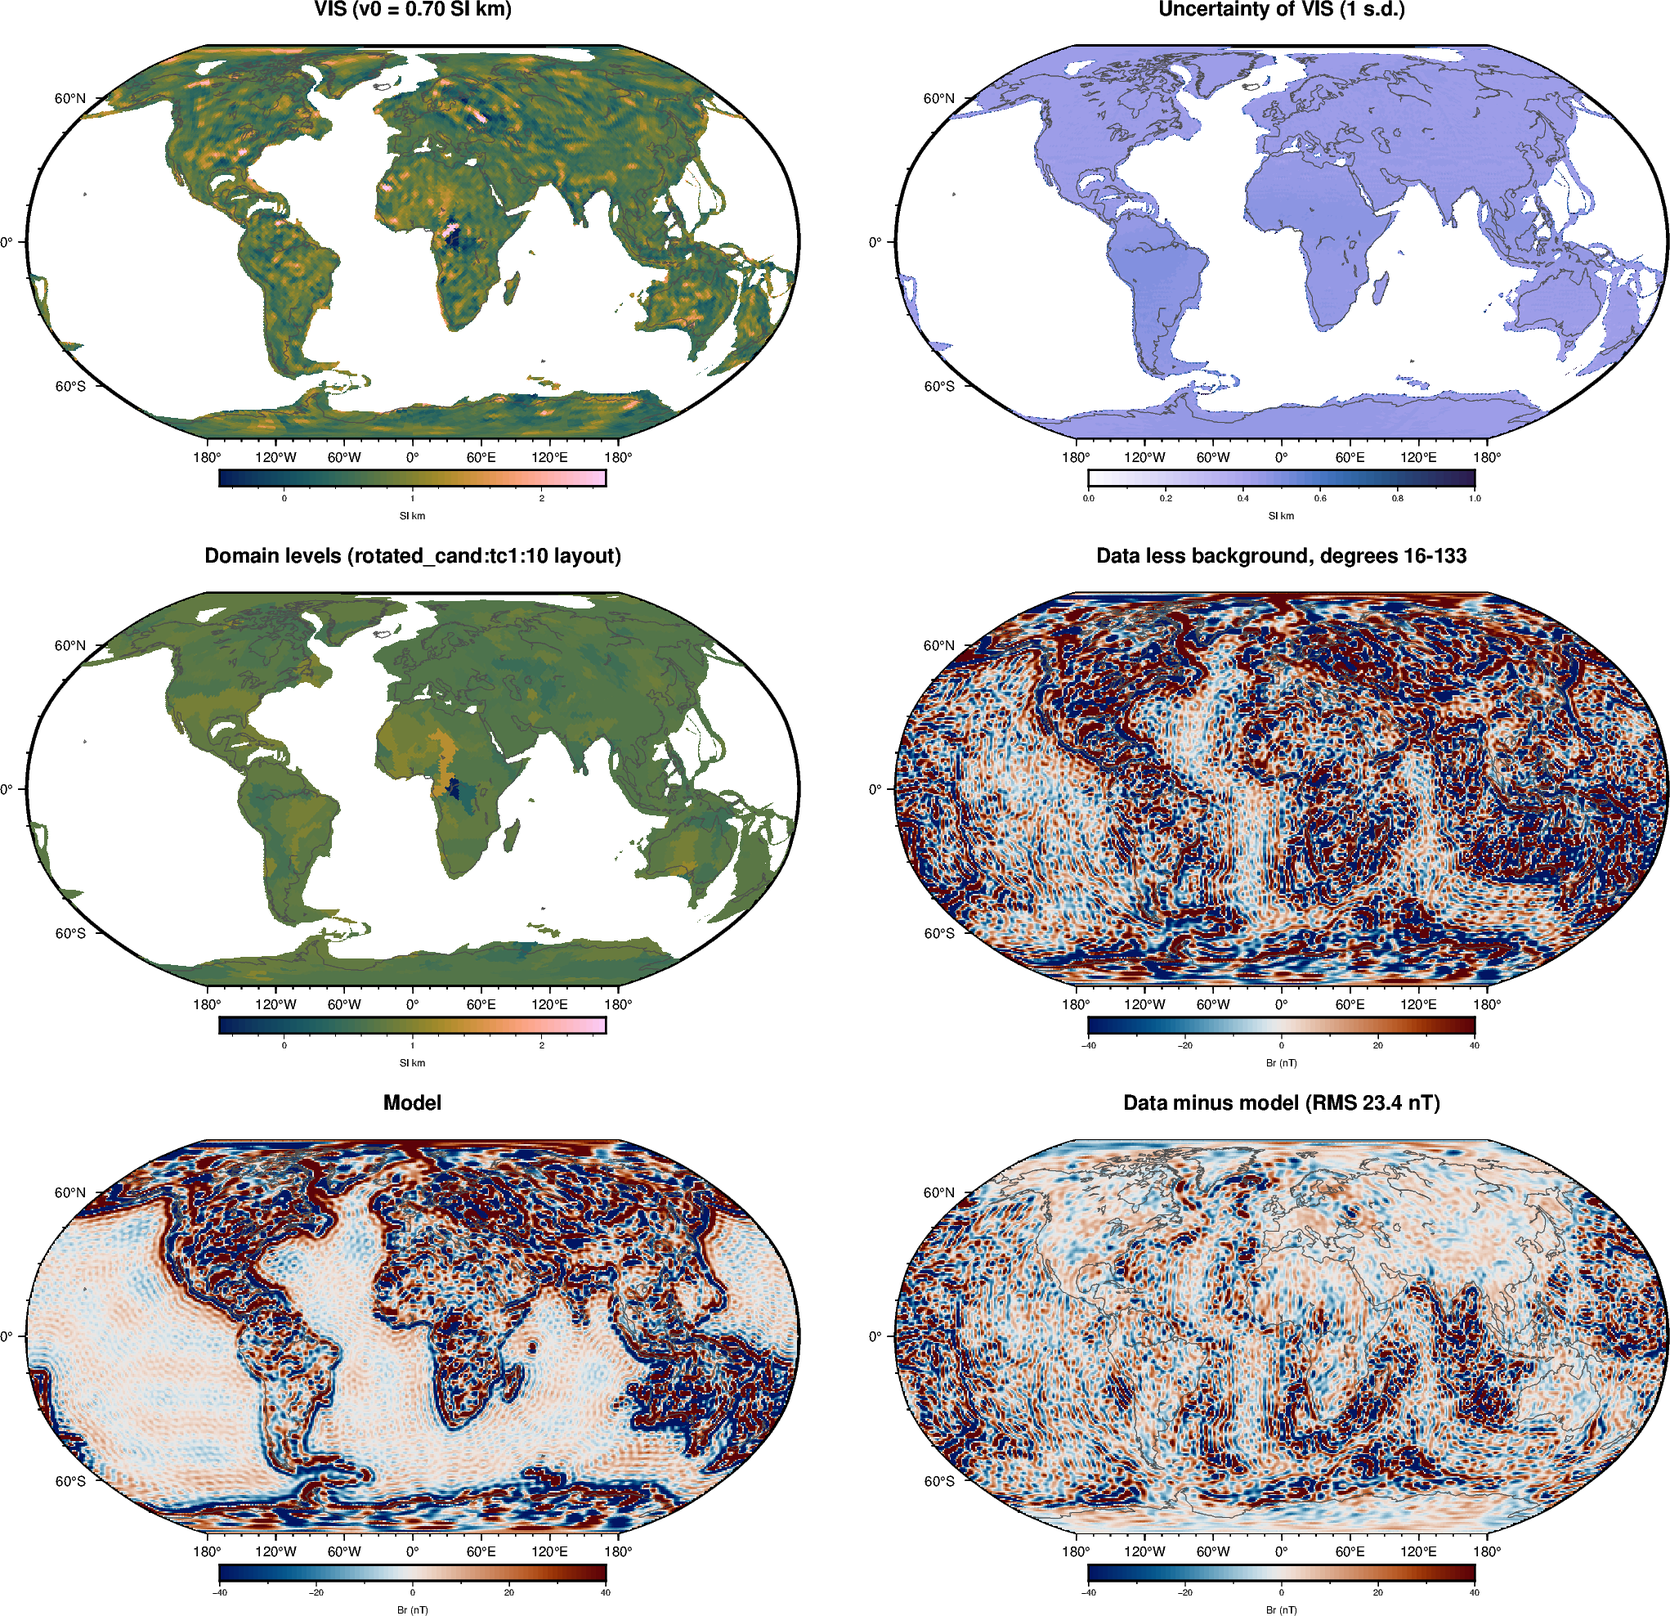
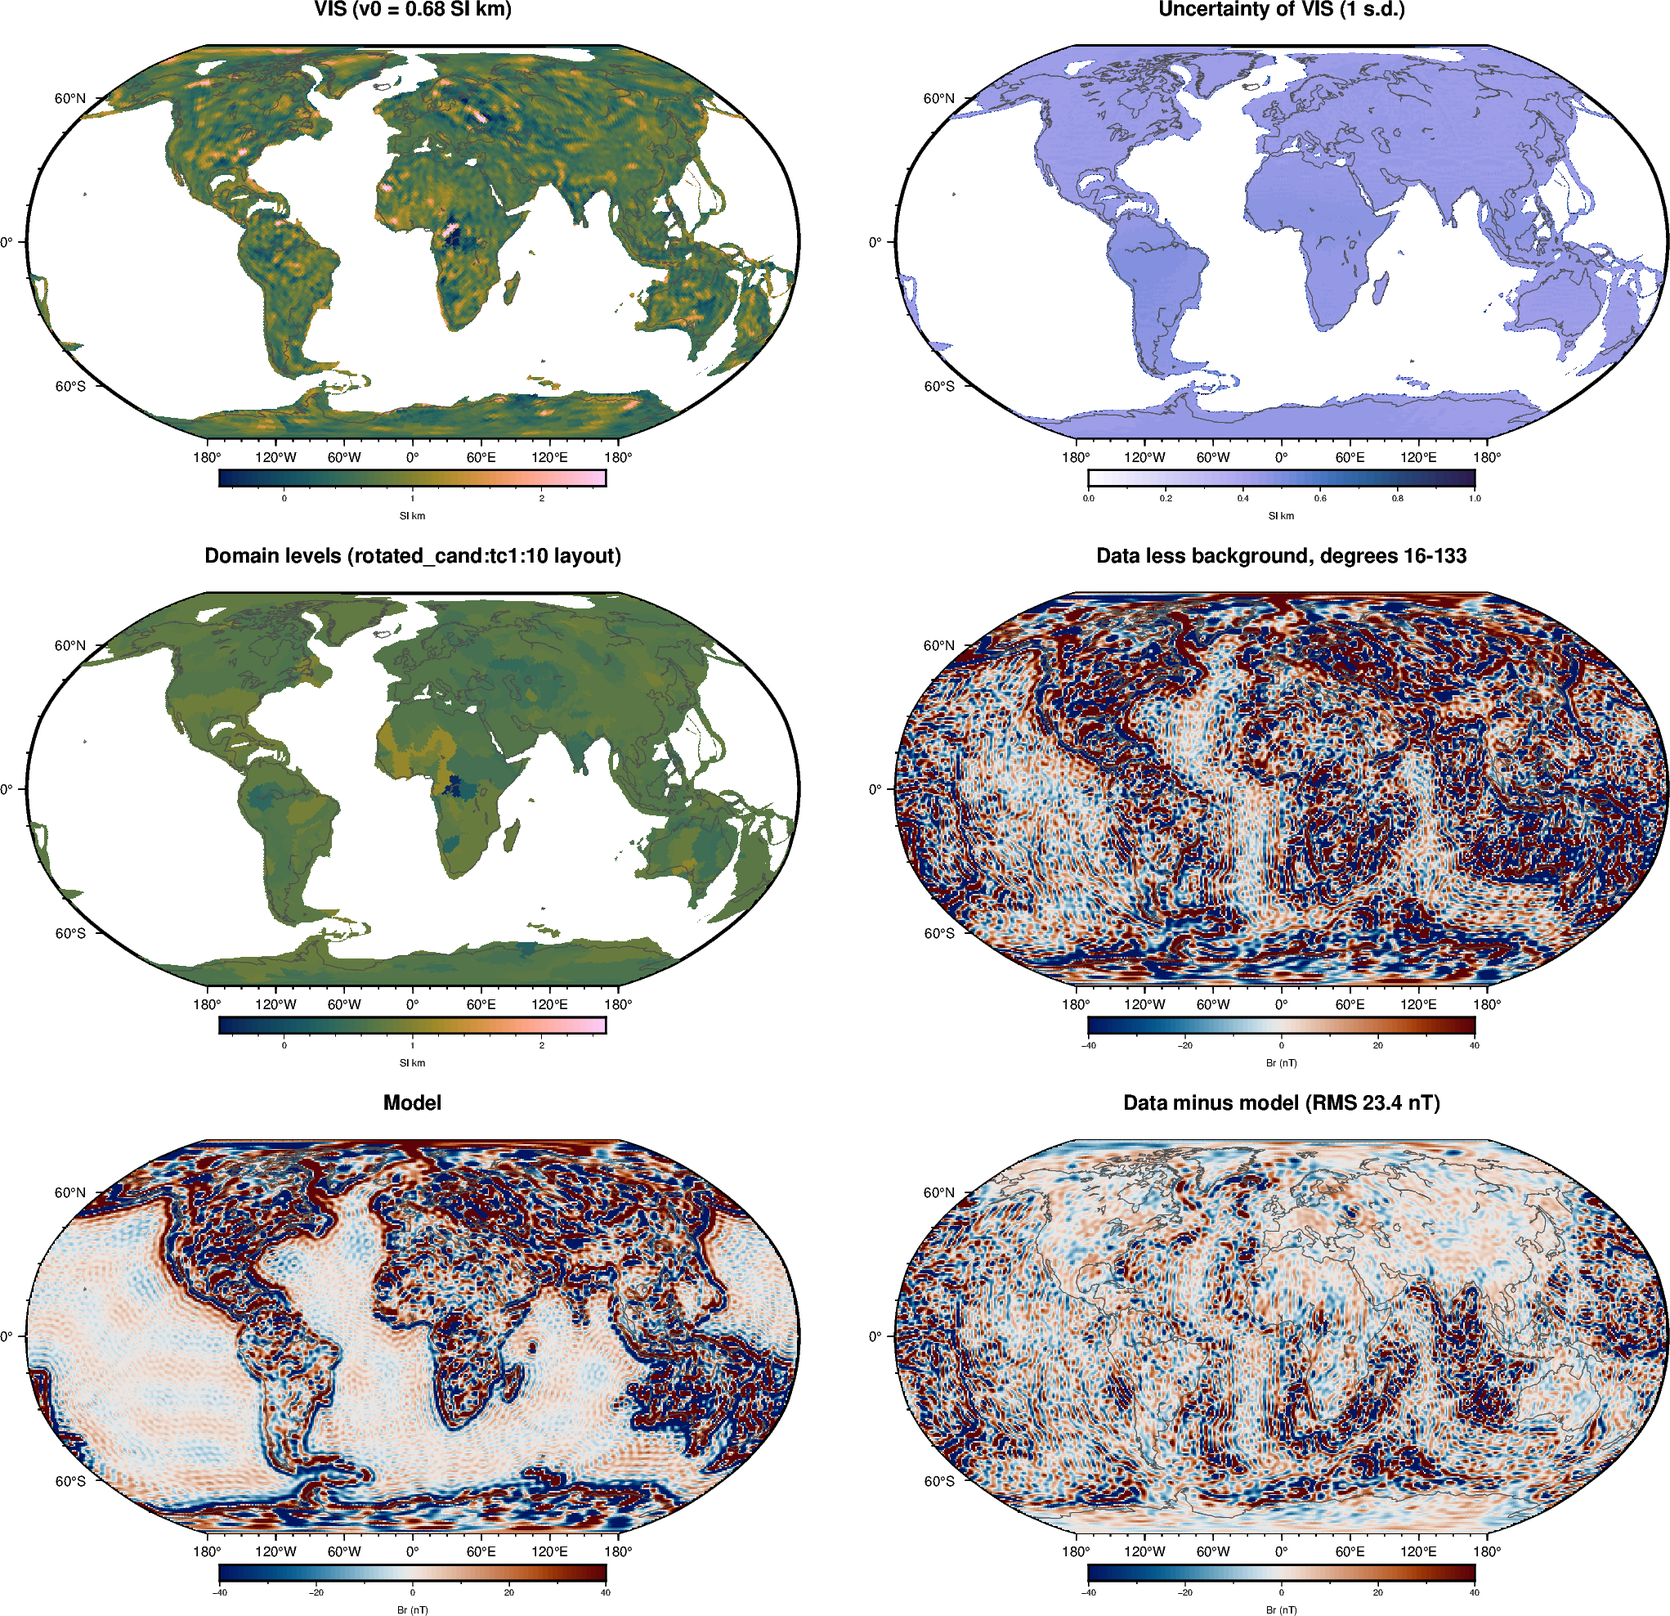
Candidate maps: 10 more S5 draws for a geometry-corrected score, TC1 rerun with the Keller grid, and a size-frequency plot of the domains
Corrected for geometry (real minus the mean of 11 S5 draws), NRCan comes out ahead of Hasterok, CGMW/TC1/ECM1 level with it,
Merdith and SL2013 behind; S5 favours Hasterok's capped domain sizes, so the correction rests on S5 being realistic. TC1 with
the Keller grid still beats all 20 spun copies.

diff --git a/docs/reports/2026-10-13-candidate-sets/make_ranking.py b/docs/reports/2026-10-13-candidate-sets/make_ranking.py
@@ -1,6 +1,8 @@
 """The candidate-map test (batches 1 and 2): each map's evidence against the Hasterok provinces, against 20 spun copies of
-itself, and on the S5 synthetic data; and maps of each map's domains and fitted VIS.
-Read from the runs gcm_glc_cand1_* and gcm_glc_cand2_*. Run from the repository root."""
+itself, and on 11 draws of S5 synthetic data (geology-blind), with the score corrected for geometry (real minus the
+S5 mean); and maps of each map's domains and fitted VIS.
+Read from the runs gcm_glc_cand1_*, gcm_glc_cand2_*, gcm_glc_cand_syn_s5_d* and gcm_glc_cand_tc1k_* (TC1 rerun with the
+Keller grid, which supersedes the cand1 TC1 rows). Run from the repository root."""
 import glob
 import re
 
@@ -20,6 +22,7 @@ NAMES = {'cand:hasterok': 'Hasterok provinces', 'cand:sl2013_k4': 'SL2013sv clus
          'cand:ecm1': 'ECM1 crustal type', 'cand:merdith': 'Merdith (2021) static polygons',
          'cand:nrcan': 'NRCan surface geology', 'cand:cgmw': 'CGMW geological map'}
 BATCHES = ('cand1', 'cand2')
+TC1K = 'cand_tc1k'                                        # TC1 rerun with the Keller grid
 
 
 def evidence(path):
@@ -38,7 +41,20 @@ def runs(tag):
     for b in BATCHES:
         for f in glob.glob(R + f'gcm_glc_{b}_{tag}.log'):
             out = {**evidence(f), **out}                     # the first batch's value of a layout run twice
+    for f in glob.glob(R + f'gcm_glc_{TC1K}_{tag}.log'):
+        out.update({k: v for k, v in evidence(f).items() if k == 'cand:tc1'})
     return out
+
+
+def s5_draws():
+    """evidence of every layout in each S5 draw: draw 0 from the batches, draws 1-10 from their own runs"""
+    files = sorted(glob.glob(R + 'gcm_glc_cand_syn_s5_d*.log'), key=lambda f: int(re.search(r'_d(\d+)', f).group(1)))
+    return [d for d in [runs('syn_s5')] + [evidence(f) for f in files] if REF in d]
+
+
+def s5_relative(c, draws):
+    """a map's S5 evidence minus Hasterok's, in each draw that has it"""
+    return np.array([d[c][0] - d[REF][0] for d in draws if c in d])
 
 
 def spun(cand):
@@ -48,7 +64,7 @@ def spun(cand):
 
 
 def chart():
-    real, syn = runs('lcs1_16-133'), runs('syn_s5')
+    real, draws = runs('lcs1_16-133'), s5_draws()
     cands = sorted((c for c in NAMES if c in real), key=lambda c: real[c][0])
     ref = real[REF][0]
     INK, MUTED, REAL, SPIN, SYN = '#0b0b0b', '#52514e', '#2a78d6', '#eb6834', '#8a8984'
@@ -64,8 +80,10 @@ def chart():
         note = f'{(s > d).sum()} of {len(s)} spun copies beat it' if len(s) else 'spin test pending'
         ax.annotate(note, (max([d] + list(s)), y), xytext=(8, 0), textcoords='offset points', fontsize=7,
                     color=MUTED, va='center')
-        if c in syn:
-            bx.scatter([syn[c][0] - syn[REF][0]], [y], s=30, color=SYN, zorder=3)
+        z = s5_relative(c, draws)
+        if len(z):
+            bx.scatter(z, y + rng.uniform(-0.15, 0.15, len(z)), s=10, color=SYN, alpha=0.7, lw=0, zorder=3)
+            bx.plot([z.mean()]*2, [y - 0.3, y + 0.3], color=INK, lw=1.6, zorder=4)
     labels = [f'{NAMES[c]}  ({real[c][1]} domains)' for c in cands]
     for a in (ax, bx):
         a.axvline(0, color=INK, lw=1, zorder=2)
@@ -78,20 +96,28 @@ def chart():
     ax.margins(x=0.3)
     ax.set_xlabel('Log evidence minus that of the Hasterok provinces  (> 0: fits better)', fontsize=8, color=MUTED)
     ax.set_title('Real data: each map (blue) and 20 spun copies of it (orange)', fontsize=9, loc='left', color=INK)
-    bx.set_xlabel('Same, synthetic data', fontsize=8, color=MUTED)
-    bx.set_title('Synthetic check (S5)', fontsize=9, loc='left', color=INK)
+    bx.set_xlabel('Same, synthetic data (bar: mean)', fontsize=8, color=MUTED)
+    bx.set_title(f'Synthetic check: {len(draws)} S5 draws', fontsize=9, loc='left', color=INK)
     fig.tight_layout()
     fig.savefig(OUT + 'ranking.png')
+    rows = []
     for c in cands[::-1]:
-        s = spun(c) - ref
-        print(f'{NAMES[c]:32s} {real[c][1]:4d} domains  {real[c][0] - ref:+8.1f}'
-              + (f'  spun best {s.max():+.1f} median {np.median(s):+.1f}' if len(s) else '')
-              + (f'  S5 {syn[c][0] - syn[REF][0]:+.1f}' if c in syn else ''))
+        s, z = spun(c), s5_relative(c, draws)
+        d = real[c][0] - ref
+        rows.append(dict(map=NAMES[c], domains=real[c][1], real_vs_hasterok=round(d, 1),
+                         real_minus_median_spun=round(real[c][0] - np.median(s), 1) if len(s) else np.nan,
+                         spun_beating_it=int((s > real[c][0]).sum()) if len(s) else np.nan,
+                         s5_draws=len(z), s5_mean=round(z.mean(), 1), s5_sd=round(z.std(ddof=1), 1) if len(z) > 1 else np.nan,
+                         corrected=round(d - z.mean(), 1)))
+    import pandas as pd
+    t = pd.DataFrame(rows).sort_values('corrected', ascending=False)
+    t.to_csv(OUT + 'corrected.csv', index=False)
+    print(t.to_string(index=False))
 
 
 def maps():
     """for each map: its domains (random colours) and the fitted VIS averaged over each domain"""
-    sets = [xr.load_dataset(f) for b in BATCHES for f in glob.glob(R + f'gcm_glc_{b}_lcs1_16-133.nc')]
+    sets = [xr.load_dataset(f) for b in (TC1K,) + BATCHES for f in glob.glob(R + f'gcm_glc_{b}_lcs1_16-133.nc')]
     ds = sets[0]
     cell = figures.cell_grid(ds)
     a = ds.area_km2.values

diff --git a/docs/reports/2026-10-13-candidate-sets/make_sizes.py b/docs/reports/2026-10-13-candidate-sets/make_sizes.py
@@ -1,0 +1,70 @@
+"""Size-frequency of the candidate maps' domains, as Bird (2003) plots plates: each domain's area (as fitted: the
+patches on the ~100 km cells, rest domains left out) against the number of domains at least that large.
+Read from gcm_glc_cand1/2_lcs1_16-133.nc (TC1 from the Keller-grid rerun gcm_glc_cand_tc1k). Run from the repository root."""
+import glob
+import json
+
+import matplotlib.pyplot as plt
+import numpy as np
+import xarray as xr
+
+R = 'inversions/results/'
+OUT = 'docs/reports/2026-10-13-candidate-sets/'
+# the six maps that beat their spun copies, in the fixed categorical order; SL2013sv (fails) in muted greys
+PASS = [('cand:hasterok', 'Hasterok provinces', '#2a78d6'), ('cand:nrcan', 'NRCan surface geology', '#eb6834'),
+        ('cand:ecm1', 'ECM1 crustal type', '#1baf7a'), ('cand:merdith', 'Merdith static polygons', '#eda100'),
+        ('cand:cgmw', 'CGMW geological map', '#e87ba4'), ('cand:tc1', 'TC1 tectono-thermal age', '#008300')]
+FAIL = [(f'cand:sl2013_k{k}', f'SL2013sv k = {k}', g) for k, g in
+        [(4, '#c9c8c2'), (6, '#b0afa8'), (8, '#97968f'), (12, '#7e7d77')]]
+INK, MUTED, GRID = '#0b0b0b', '#52514e', '#ecebe7'
+
+
+def areas(name, sets):
+    """area (km2, on the sphere) of every non-rest domain of a layout"""
+    v = name.replace(':', '_')
+    ds = next(d for d in sets if f'layout_domain_{v}' in d)
+    dom = ds[f'layout_domain_{v}'].values.astype(int)
+    names = json.loads(ds.attrs['domain_names'])[name]
+    a = np.bincount(dom, ds.area_km2.values, minlength=len(names))
+    a = a[[i for i, n in enumerate(names) if 'rest ' not in n]]
+    return np.sort(a[a > 0])[::-1]
+
+
+def main():
+    # the TC1 rerun with the Keller grid first, so its TC1 domains are the ones used
+    sets = [xr.load_dataset(f) for f in glob.glob(R + 'gcm_glc_cand_tc1k_lcs1_16-133.nc')
+            + sorted(glob.glob(R + 'gcm_glc_cand[12]_lcs1_16-133.nc'))]
+    fig, ax = plt.subplots(figsize=(7.5, 5), dpi=200)
+    for name, label, colour in FAIL + PASS[::-1]:
+        a = areas(name, sets)
+        n = np.arange(1, len(a) + 1)
+        lw = 2.4 if name == 'cand:hasterok' else 1.6
+        ax.step(a, n, where='post', color=colour, lw=lw, label=f'{label} ({len(a)})', zorder=2 if name.startswith('cand:sl2013') else 3)
+    cell = sets[0].area_km2.median()
+    ax.axvline(3*cell, color=MUTED, lw=0.8, ls=(0, (3, 3)), zorder=1)
+    ax.annotate('3 whole cells, the smallest domain\n(coastal cells can be partial)', (3*cell, 1.2), xytext=(4, 0), textcoords='offset points',
+                fontsize=7, color=MUTED, va='bottom')
+    ax.set_xscale('log')
+    ax.set_yscale('log')
+    ax.set_xlabel('Domain area (km²)', fontsize=8, color=MUTED)
+    ax.set_ylabel('Number of domains at least this large', fontsize=8, color=MUTED)
+    ax.set_title('Size–frequency of the candidate maps\' domains (as fitted, rest domains left out)', fontsize=9,
+                 loc='left', color=INK)
+    ax.tick_params(labelsize=7, colors=MUTED)
+    for s in ('top', 'right'):
+        ax.spines[s].set_visible(False)
+    for s in ('left', 'bottom'):
+        ax.spines[s].set_color(MUTED)
+    ax.grid(color=GRID, lw=0.6, which='major', zorder=0)
+    h, l = ax.get_legend_handles_labels()
+    ax.legend(h[::-1], l[::-1], fontsize=7, frameon=False, loc='upper right', title='Map (number of domains)',
+              title_fontsize=7, labelcolor=INK)
+    fig.tight_layout()
+    fig.savefig(OUT + 'size_frequency.png')
+    for name, label, _ in PASS + FAIL:
+        a = areas(name, sets)
+        print(f'{label:28s} {len(a):4d} domains, largest {a[0]:9.3g} km2, median {np.median(a):9.3g} km2')
+
+
+if __name__ == '__main__':
+    main()

diff --git a/docs/reports/2026-10-13-candidate-sets/README.md b/docs/reports/2026-10-13-candidate-sets/README.md
@@ -12,7 +12,7 @@ The Hasterok provinces beat random and shifted versions of themselves. These are
 - **GLiM lithology** (Hartmann & Moosdorf 2012): the 0.5° grid from PANGAEA (doi:10.1594/PANGAEA.788537), saved in `~/Data/Geology/GLiM/`. Water bodies, no-data cells and ice are left blank because they are not rock types.
 - **SL2013sv clusters**: k-means (k = 6) on absolute S-wave velocity profiles from 50 to 300 km at the 7842 model knots. Each 0.5° node takes the nearest knot along a great circle. The number of clusters and the depth range are free choices for now.
 - **ECM1 crustal type** (Mooney et al. 2023): the 1° `Type` column of `ECM1.txt`.
-- **TC1 tectono-thermal age** (Artemieva 2006). The results below used a 1° age-bin grid digitised by C. Heine. The code now reads TC1 from the age map in C. B. Keller's [StatisticalGeochemistry](https://github.com/brenhinkeller/StatisticalGeochemistry) (MIT licence) through gprm's `Geology.fetch_TC1`. The two maps agree on 82% of the continental area, so the TC1 rows need rerunning.
+- **TC1 tectono-thermal age** (Artemieva 2006). TC1 is read from the age map in C. B. Keller's [StatisticalGeochemistry](https://github.com/brenhinkeller/StatisticalGeochemistry) (MIT licence), a 1/3° grid, through gprm's `Geology.fetch_TC1`. The overview figure above shows an earlier 1° grid digitised by C. Heine, which agrees with it on 82% of the continental area. All TC1 results below were rerun with the Keller grid (runs `gcm_glc_cand_tc1k_*`, plus the spin test).
 - **Merdith et al. (2021, v1.1) static polygons**: from the gprm cache, leaving out the oceanic ones (feature type `gpml:Basin`).
 
 For the gridded maps, the patch counts treat cells of the same class that touch (4 neighbours, across the dateline) as one patch.
@@ -45,7 +45,7 @@ The spin test turns each continent's units by a random angle about the continent
 | Hasterok provinces | 814 | 0 | +431 | 0 of 20 |
 | ECM1 crustal type | 472 | −261 | +253 | 0 of 20 |
 | Merdith static polygons | 766 | −261 | +162 | 0 of 20 |
-| TC1 tectono-thermal age | 243 | −406 | +132 | 0 of 20 |
+| TC1 tectono-thermal age | 294 | −370 | +168 | 0 of 20 |
 | SL2013sv, k = 12 | 857 | −344 | +89 | 1 of 20 |
 | SL2013sv, k = 8 | 570 | −401 | +62 | 3 of 20 |
 | SL2013sv, k = 6 | 388 | −487 | +36 | 5 of 20 |
@@ -53,7 +53,7 @@ The spin test turns each continent's units by a random angle about the continent
 
 - **Four maps carry real information about the magnetic field:** Hasterok, ECM1, Merdith and TC1. Each beats all 20 copies of itself spun to the wrong place. Hasterok carries by far the most.
 - **SL2013sv does not pass.** At every k, some spun copies fit as well as or better than the real clustering. So the 50–300 km velocity structure shows no clear link to where the magnetic sources change. Its score rises with k because it has more, smaller domains.
-- **The synthetic check** (right of the chart; data with no geology in it) shows what domain count alone does. Maps with about 800 domains score best, and Merdith comes out ahead of Hasterok. So Hasterok's lead on real data is not an artefact of its domain count. TC1's low raw rank, however, is mostly due to its few domains. For TC1, the spin test is the fairer measure.
+- **The synthetic check** (right of the chart; data with no geology in it) shows what domain count alone does. Maps with about 800 domains score best, and Merdith comes out ahead of Hasterok. So Hasterok's lead on real data is not an artefact of its domain count. TC1's low raw rank, however, is mostly due to its few domains. For TC1, the spin test is the fairer measure. (The synthetic check here used one draw; the next section repeats it with 11.)
 
 ### Batch 2: detailed surface geology (NRCan, CGMW)
 
@@ -69,10 +69,46 @@ The same test, for two detailed surface-geology maps. Here a unit is a legend en
 
 So six maps carry information about the magnetic field: Hasterok, NRCan, ECM1, Merdith, CGMW and TC1. The Hasterok provinces carry the most.
 
+### Correcting for geometry with 11 synthetic draws
+
+A map can score well partly because of its domain geometry: the sizes and shapes of its domains, whatever their position. To estimate that part, every map was also fitted to 11 synthetic data sets. Each is a smooth random magnetization with no geology in it (S5: β 2.5, ℓ 500 km, mean 0.75, sd 0.4 SI·km), with realistic noise and new random seeds for each draw.
+
+**Corrected score = (real evidence − Hasterok's) − (mean S5 evidence − Hasterok's).** It measures how much better a map does on real data than its geometry alone would earn.
+
+| Map | Domains | Real vs Hasterok | S5 mean vs Hasterok (sd of one draw) | Corrected (± about sd/√11) |
+|---|---|---|---|---|
+| NRCan surface geology | 990 | −210 | −329 (88) | **+119** (±26) |
+| CGMW geological map | 966 | −296 | −308 (92) | **+13** (±28) |
+| Hasterok provinces | 814 | 0 | 0 | **0** |
+| TC1 tectono-thermal age | 294 | −370 | −360 (78) | **−10** (±23) |
+| ECM1 crustal type | 472 | −261 | −215 (118) | **−46** (±36) |
+| SL2013sv, k = 4 | 234 | −534 | −293 (74) | **−241** (±22) |
+| Merdith static polygons | 766 | −261 | −1 (72) | **−260** (±22) |
+| SL2013sv, k = 8 | 570 | −401 | −120 (62) | **−281** (±19) |
+| SL2013sv, k = 6 | 388 | −487 | −187 (81) | **−300** (±24) |
+| SL2013sv, k = 12 | 857 | −344 | −6 (73) | **−338** (±22) |
+
+(Also in `corrected.csv`.)
+
+- **Once geometry is allowed for, the maps fall into three groups.** NRCan comes out ahead of Hasterok. CGMW, TC1 and ECM1 cannot be told apart from Hasterok. Merdith and every SL2013 clustering are clearly worse.
+- **Why the order changes.** On data with no geology, S5 favours Hasterok's geometry: many mid-sized domains and none larger than about 2×10⁶ km² (see the size plot below). It penalises the very large connected units of NRCan, CGMW, TC1 and ECM1, because a field that varies over a few hundred km is fitted badly by one level across 10⁷ km². The correction gives that penalty back.
+- **Caveat: the correction is only as good as S5 is realistic.** S5 assumes the magnetization has no uniform structure larger than about 500 km. If real cratons or other large units are uniformly magnetized, a giant domain costs little on real data, and the correction over-credits the maps that have giant domains. The spin test does not depend on this assumption, so it remains the main test. The corrected score is a sensitivity check. A next step would be to repeat the draws with a field that has structure at all scales (a pure power law, no 500 km outer scale).
+
+### Size–frequency of the domains
+
+![](size_frequency.png)
+
+Each line shows, for one map, how many of its domains (as fitted) are at least a given area. Rest domains are left out. Plates are plotted this way in Bird (2003). A power-law (fractal) size distribution would give a straight line. Flattening at small sizes reflects the 3-cell minimum and the ~100 km cells, and a steep drop at the largest sizes reflects the finite size of the continents.
+
+- **NRCan, CGMW, ECM1 and TC1** have fairly straight middles (about 10⁵–10⁶ km²) and a tail of very large connected units. For example, CGMW's "continental and island arc margins" unit forms one patch of 4×10⁷ km² around the continents.
+- **Hasterok** bends all the way down and stops at 1.9×10⁶ km². It looks more like a distribution with a typical size than a fractal one.
+
+Made by `make_sizes.py`.
+
 ### Domains and fitted VIS
 
 ![](candidate_maps.png)
 
 Left: each map's domains in random colours. Right: the fitted VIS averaged over each domain. The maps are ordered by evidence, best first.
 
-Made by `make_ranking.py` from the runs `inversions/gcm_glc_cand1_*` and `gcm_glc_cand2_*` (queues: `acceptance/cand1_queue.sh`, `cand2_queue.sh`).
+Made by `make_ranking.py` from the runs `inversions/gcm_glc_cand1_*`, `gcm_glc_cand2_*`, `gcm_glc_cand_syn_s5_d*` and `gcm_glc_cand_tc1k_*` (queues: `acceptance/cand1_queue.sh`, `cand2_queue.sh`, `cand_s5_queue.sh`, `cand_tc1k_queue.sh`).
